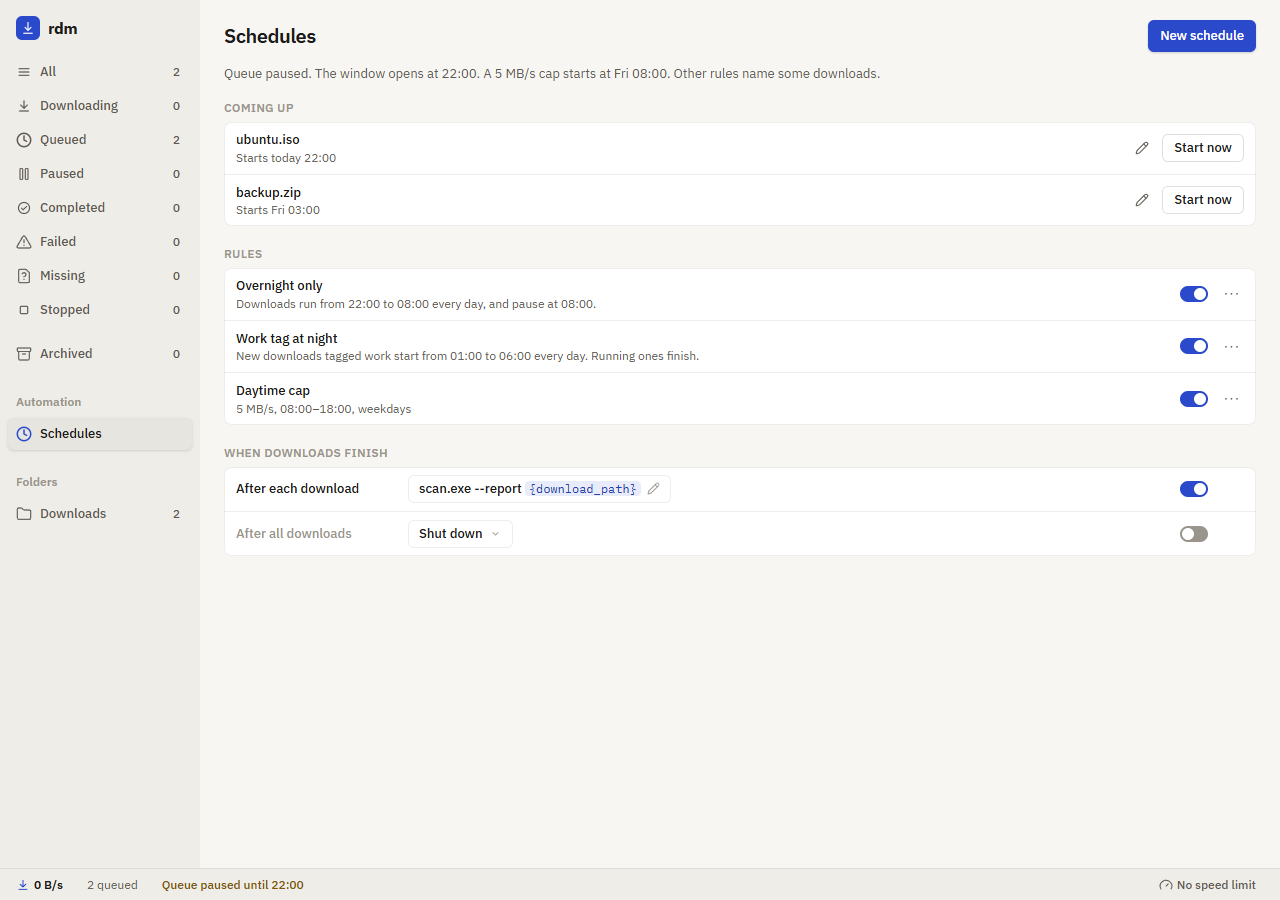
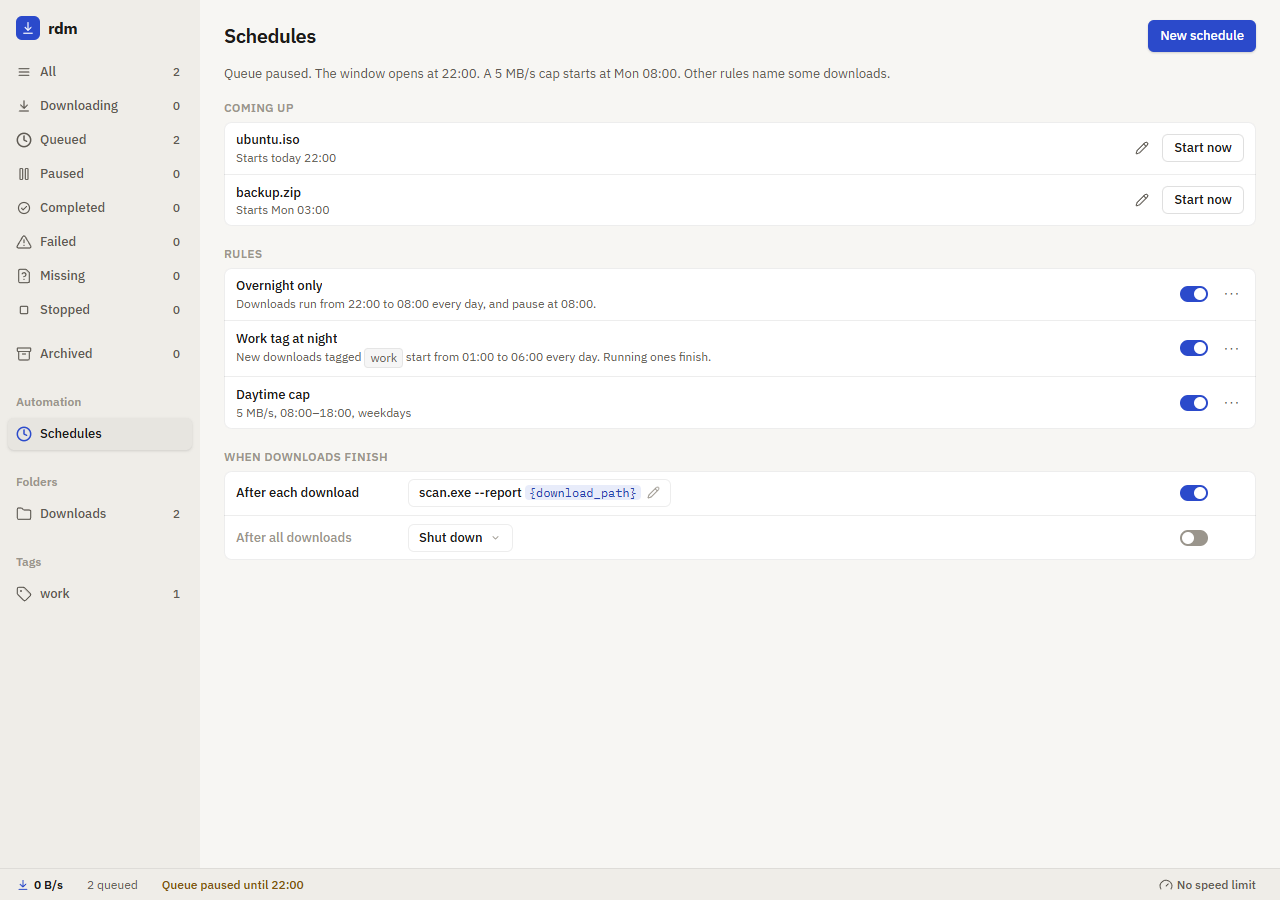
docs: refresh the Schedules screenshot (#199)
docs: Schedules screenshot shows the tag as a chip, with a matching download

diff --git a/gui/e2e/screenshots/schedules.shots.ts b/gui/e2e/screenshots/schedules.shots.ts
@@ -55,16 +55,17 @@ describe("schedules screenshot", () => {
         power: { enabled: false, action: "shutdown" },
       },
     });
-    for (const [name, startAt] of [
-      ["ubuntu.iso", "22:00"],
-      ["backup.zip", "03:00"],
-    ]) {
+    // One download carries the "work" tag, so the tag rule above matches something.
+    for (const [name, startAt, tags] of [
+      ["ubuntu.iso", "22:00", ["work"]],
+      ["backup.zip", "03:00", null],
+    ] as const) {
       await invoke("add_download", {
         url: `${baseUrl}/seg/${10 * 1000 * 1000}/${name}`,
         dir: null,
         checksum: null,
         limit: null,
-        tags: null,
+        tags,
         startAt,
       });
     }
